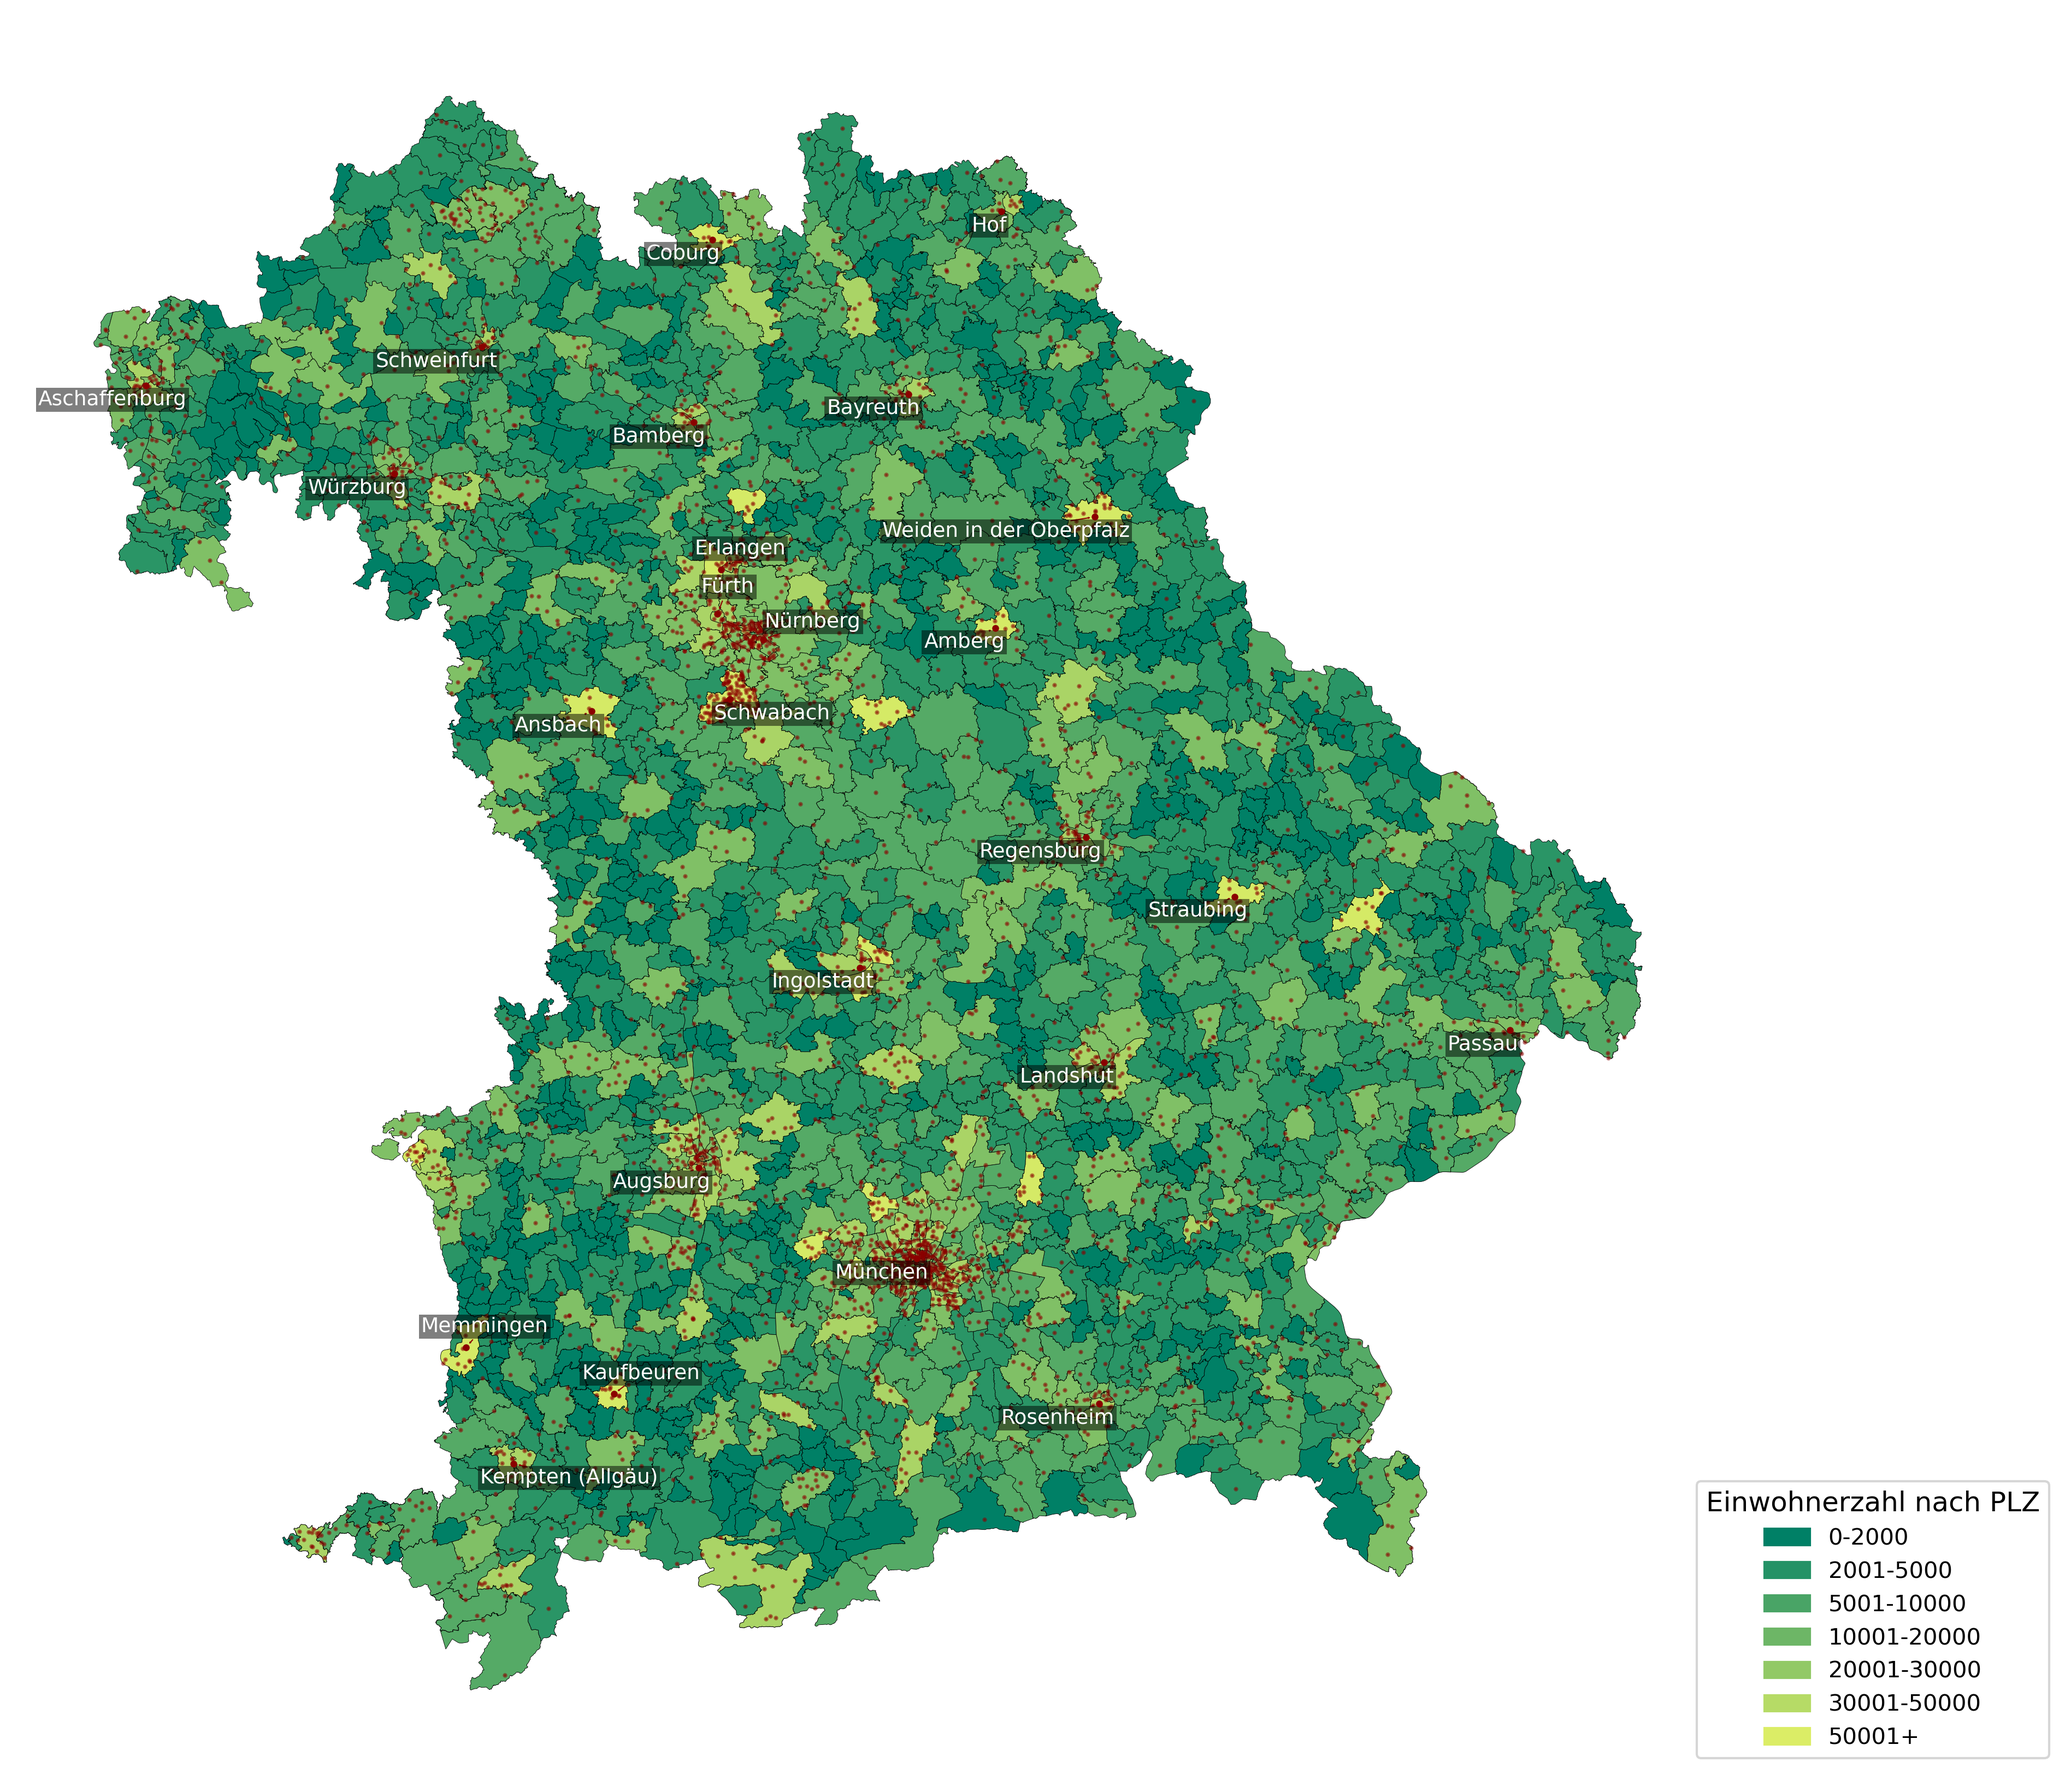
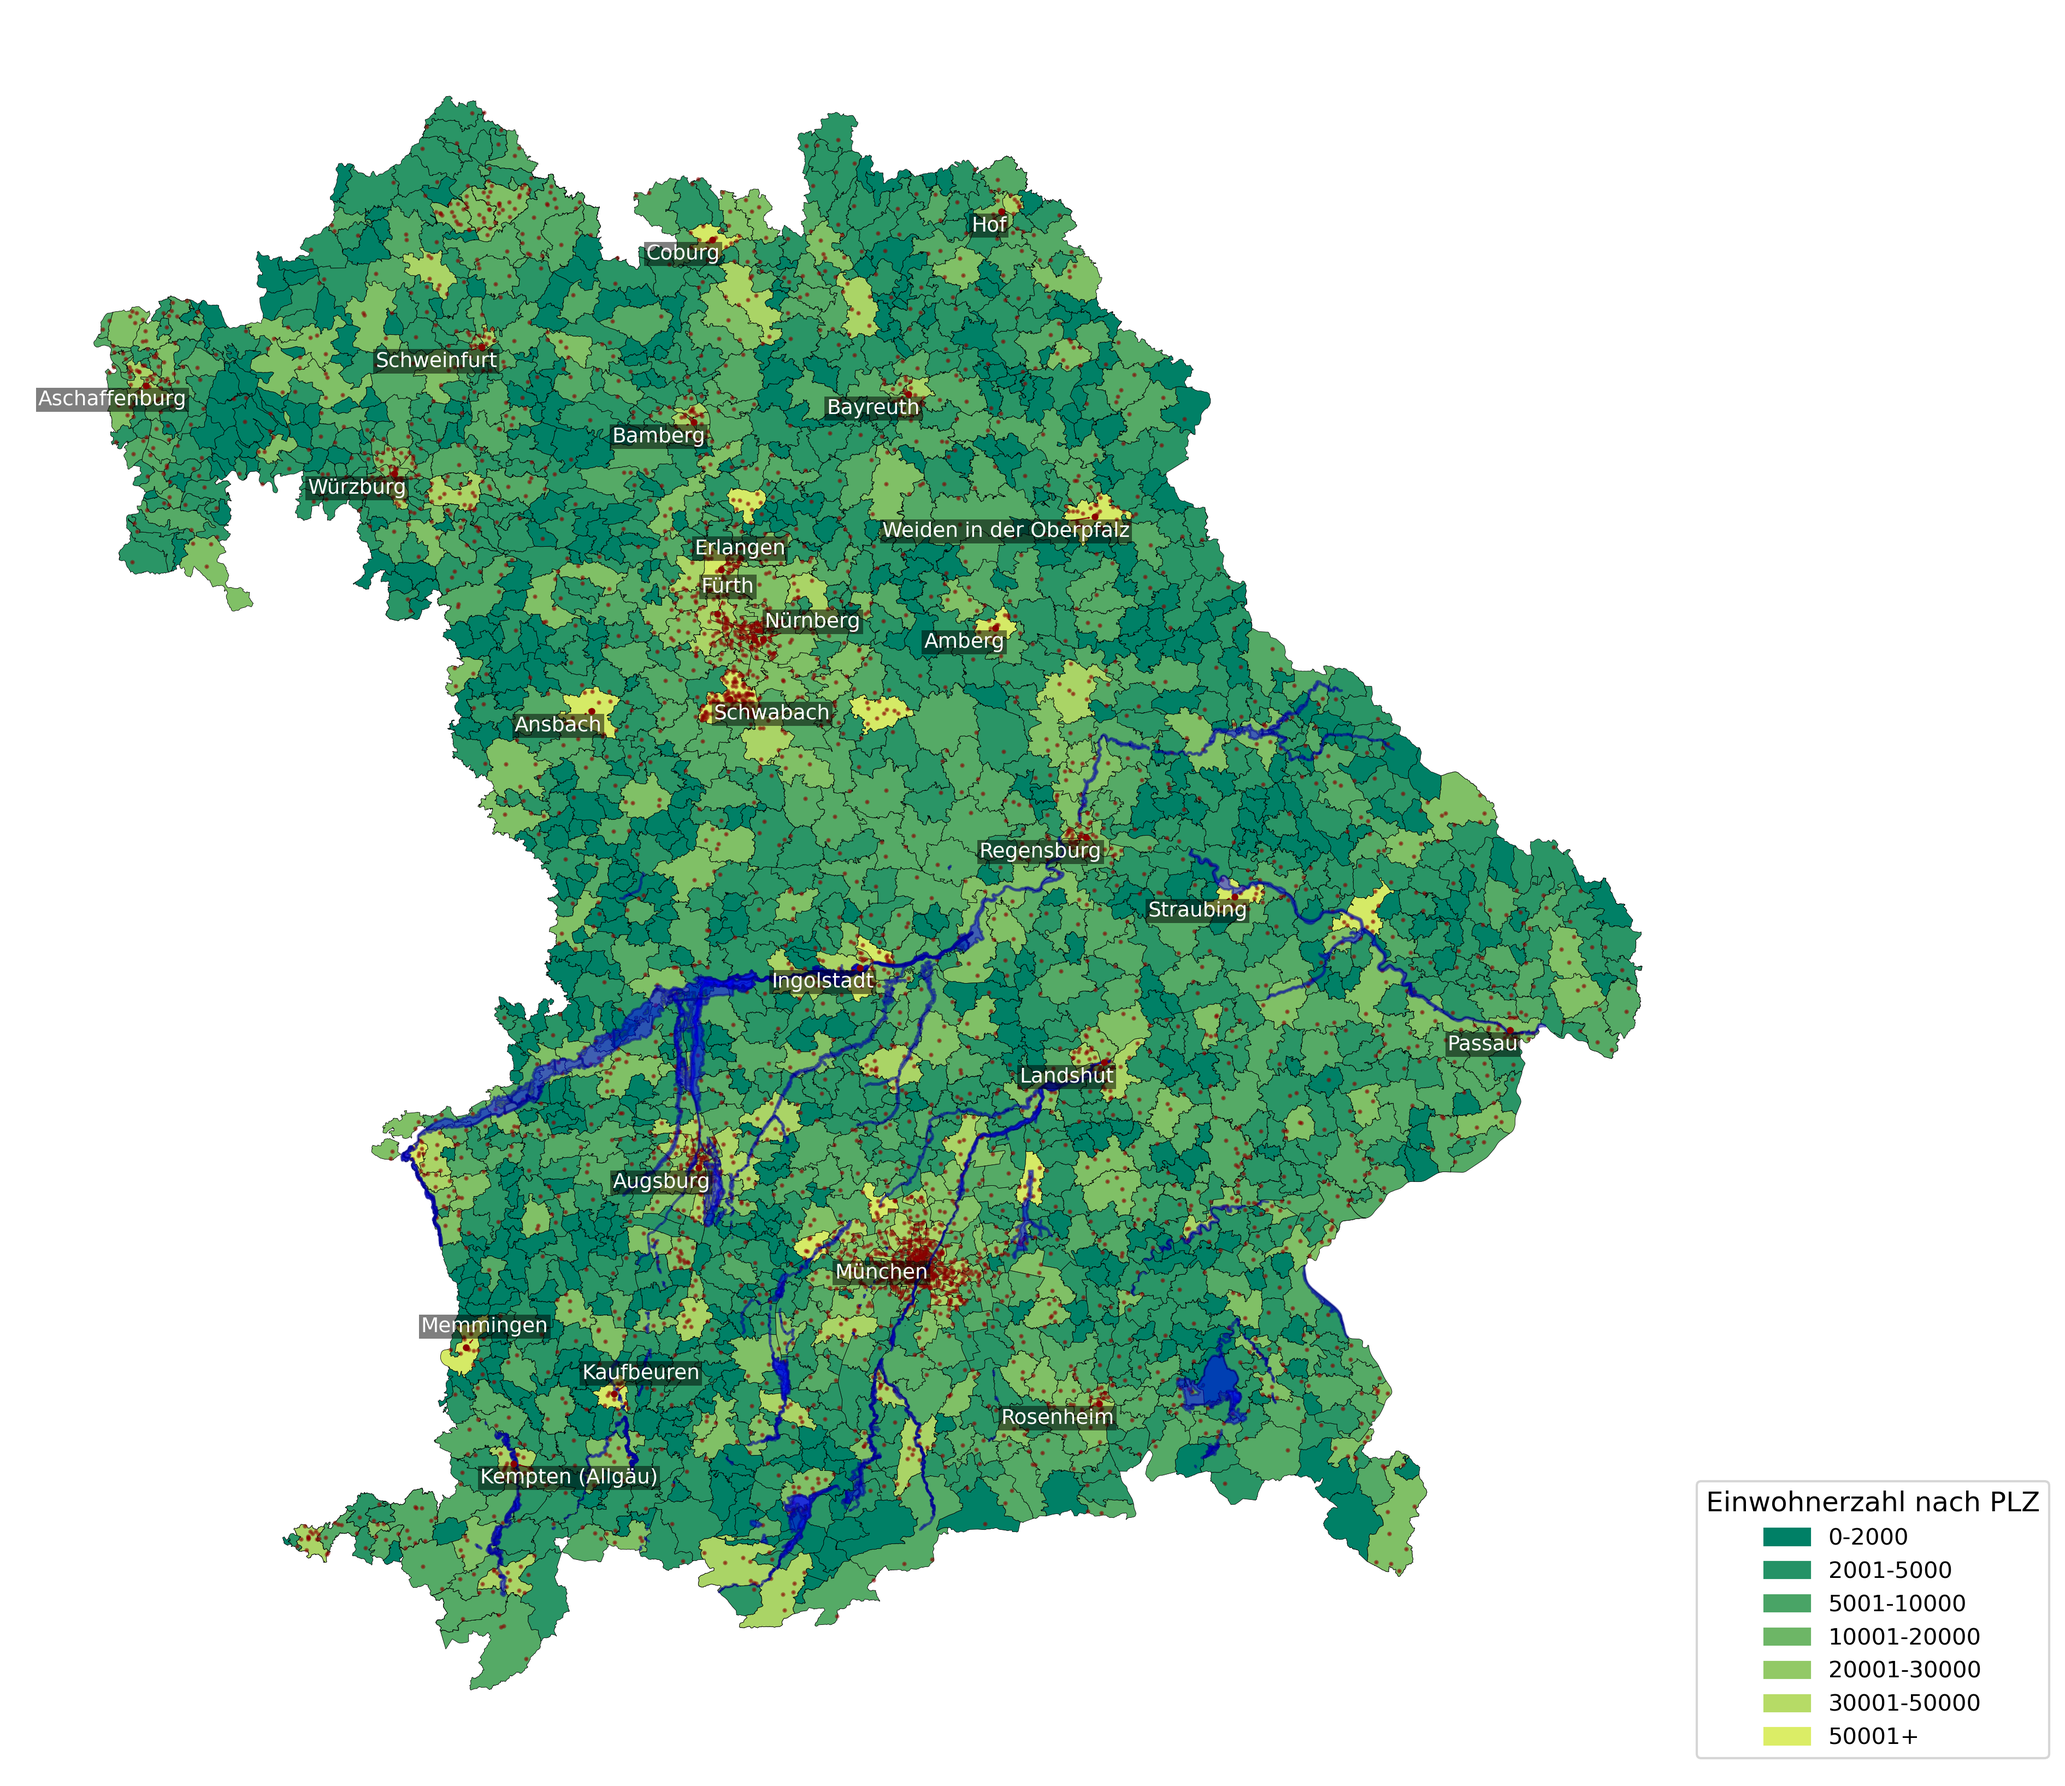
update flut abbl

diff --git a/bayernhochwassermap.py b/bayernhochwassermap.py
@@ -1,6 +1,10 @@
 import geopandas as gpd
 import pandas as pd
+import numpy as np
 import matplotlib.pyplot as plt
+from shapely.geometry import Point
+from matplotlib.patches import Patch
+from adjustText import adjust_text
 from zipfile import ZipFile
 import tempfile
 import os
@@ -8,73 +12,154 @@ import os
 # Đường dẫn đến file zip chứa dữ liệu lũ lụt
 flood_zip_path = r"C:\Users\uyen truong\Desktop\Hochschule-Muenchen-LaTeX-Template\hochwasserereignisse_epsg4258_shp.zip"
 
-# Đọc dữ liệu Bayern
+# Đọc dữ liệu PLZ (Postleitzahl) từ shapefile
 zip_path = r"C:\Users\uyen truong\Desktop\Hochschule-Muenchen-LaTeX-Template\plz-5stellig.shp.zip"
 shp_name = 'plz-5stellig'
 full_path = f"zip://{zip_path}!{shp_name}.shp"
 plz_shape_df = gpd.read_file(full_path, dtype={'plz': str})
 
+# Đọc dữ liệu vùng từ CSV
 plz_region_df = pd.read_csv('zuordnung_plz_ort.csv', sep=',', dtype={'plz': str})
 plz_region_df.drop('osm_id', axis=1, inplace=True)
 
+# Ghép dữ liệu shapefile và dữ liệu vùng
 germany_df = pd.merge(left=plz_shape_df, right=plz_region_df, on='plz', how='inner')
 germany_df.drop(['note'], axis=1, inplace=True)
+
+# Lọc dữ liệu cho Bayern
 bayern_df = germany_df.query('bundesland == "Bayern"')
 
 # Đọc dữ liệu lũ lụt từ file zip
 with tempfile.TemporaryDirectory() as tmpdir:
     with ZipFile(flood_zip_path, 'r') as zip_ref:
         zip_ref.extractall(tmpdir)
-    
-    # Tìm file .shp trong thư mục tạm thời
     shp_files = [f for f in os.listdir(tmpdir) if f.endswith('.shp')]
-    
     if not shp_files:
         raise FileNotFoundError("Không tìm thấy file .shp trong zip")
-    
-    # Đọc file shapefile đầu tiên (giả sử đây là file chứa dữ liệu vùng ngập)
     flood_data = gpd.read_file(os.path.join(tmpdir, shp_files[0]))
 
-# Đảm bảo cùng hệ tọa độ
-bayern_df = bayern_df.to_crs(flood_data.crs)
+# Chuyển đổi CRS sang hệ tọa độ chiếu (EPSG:3035) trước khi tính toán centroid
+bayern_df = bayern_df.to_crs("EPSG:3035")
+flood_data = flood_data.to_crs("EPSG:3035")
 
-# Tạo bản đồ
-fig, ax = plt.subplots(figsize=(16, 11))
+# Tính toán tổng dân số
+total_population = bayern_df['einwohner'].sum()
 
-# Vẽ bản đồ Bayern với cmap='summer'
-bayern_df.plot(
-    ax=ax, 
-    column='einwohner', 
-    categorical=False, 
-    legend=True, 
-    cmap='summer',
-    edgecolor='none',
-    alpha=0.7
-)
+# Tính số điểm cần phân bổ cho mỗi vùng dựa trên dân số của nó
+bayern_df['points'] = (bayern_df['einwohner'] / total_population * 3853).round().astype(int)
 
-# Vẽ vùng ngập
-flood_data.plot(ax=ax, color='blue', alpha=0.5, edgecolor='darkblue', label='Vùng ngập')
+# Đảm bảo tổng số điểm bằng 3853 (do làm tròn)
+difference = 3853 - bayern_df['points'].sum()
+if difference != 0:
+    max_index = bayern_df['points'].idxmax()
+    bayern_df.at[max_index, 'points'] += difference
 
-# Thêm tiêu đề và chú thích
-ax.set_title('Vùng ngập lụt và phân bố dân số ở Bayern', fontsize=16)
-ax.axis('off')
+# Tạo các điểm ngẫu nhiên trong mỗi vùng và tạo DataFrame cho chúng
+points = []
+data = []
+for idx, row in bayern_df.iterrows():
+    num_points = row['points']
+    polygon = row['geometry']
+    minx, miny, maxx, maxy = polygon.bounds
+    for _ in range(num_points):
+        while True:
+            random_point = Point(np.random.uniform(minx, maxx), np.random.uniform(miny, maxy))
+            if polygon.contains(random_point):
+                points.append(random_point)
+                data.append({
+                    'ort': row['ort'],
+                    'landkreis': row['landkreis'],
+                    'latitude': random_point.y,
+                    'longitude': random_point.x
+                })
+                break
 
-# Điều chỉnh thanh màu (colorbar)
-cbar = ax.get_figure().get_axes()[1]
-cbar.set_ylabel('Dân số', fontsize=12)
-cbar.tick_params(labelsize=10)
+# Chuyển các điểm thành GeoDataFrame
+points_gdf = gpd.GeoDataFrame(geometry=points)
 
-# Thêm chú thích cho vùng ngập
-ax.legend(fontsize=10, loc='lower left')
+# Chuyển danh sách dữ liệu thành DataFrame
+points_df = pd.DataFrame(data)
 
-# Đặt nền trắng
-fig.patch.set_facecolor('white')
-ax.set_facecolor('white')
+# Tạo bản đồ với và không có dữ liệu lũ lụt
+for plot_with_flood in [True, False]:
+    fig, ax = plt.subplots(figsize=(16, 11))
 
-plt.tight_layout()
-plt.show()
+    # Vẽ bản đồ phân bố dân số
+    population_bins = [0, 2000, 5000, 10000, 20000, 30000, 50000, 100000]
+    population_labels = ['0-2000', '2001-5000', '5001-10000', '10001-20000', '20001-30000', '30001-50000', '50001+']
+    bayern_df['pop_category'] = pd.cut(bayern_df['einwohner'], bins=population_bins, labels=population_labels)
 
-# In thông tin về dữ liệu lũ lụt
-print(flood_data.info())
-print(flood_data.head())
-flood_data.to_csv("bayernflooddata.csv", index=False)
+    bayern_df.plot(
+        ax=ax,
+        column='pop_category',
+        categorical=True,
+        legend=False,
+        cmap='summer',
+        edgecolor='black',
+        linewidth=0.2
+    )
+
+    # Vẽ các điểm phân bố lên bản đồ
+    points_gdf.plot(ax=ax, marker='o', color='darkred', markersize=1, alpha=0.5)
+
+    # Vẽ dữ liệu lũ lụt nếu plot_with_flood là True
+    if plot_with_flood:
+        flood_data.plot(ax=ax, color='blue', alpha=0.5, edgecolor='darkblue', label='Vùng ngập lụt')
+
+    # Vẽ các điểm trung tâm cho từng Ort
+    ort_centers = bayern_df[bayern_df['landkreis'].isna()].groupby('ort').agg({
+        'geometry': lambda x: x.unary_union.centroid
+    }).reset_index()
+
+    ort_centers = ort_centers.set_geometry('geometry')
+
+    ax.scatter(
+        ort_centers.geometry.x,
+        ort_centers.geometry.y,
+        color='darkred',
+        s=4,
+        zorder=5
+    )
+
+    # Annotating only unique Orts with empty 'landkreis'
+    texts = []
+    for idx, row in ort_centers.iterrows():
+        texts.append(ax.text(
+            row.geometry.x + 0.005,
+            row.geometry.y + 0.005,
+            row['ort'],
+            ha='center',
+            va='center',
+            fontsize=9,
+            color='white',
+            bbox=dict(facecolor='black', alpha=0.5, edgecolor='none', pad=1)
+        ))
+
+    # Use adjust_text to avoid overlapping
+    try:
+        adjust_text(texts, arrowprops=dict(arrowstyle='->', color='darkred', lw=0.5))
+    except MemoryError:
+        print("MemoryError: Unable to adjust text. Reducing number of labels or simplifying the layout might help.")
+
+    # Tạo chú thích cho phân loại dân số
+    legend_handles = [
+        Patch(color=plt.cm.summer(i / len(population_labels)), label=label)
+        for i, label in enumerate(population_labels)
+    ]
+    ax.legend(handles=legend_handles, title='Einwohnerzahl nach PLZ', loc='lower right', fontsize=10, title_fontsize=12, bbox_to_anchor=(1.2, 0))
+
+    # Xóa tiêu đề và đặt nền trắng
+    ax.axis('off')
+    fig.patch.set_facecolor('white')
+    ax.set_facecolor('white')
+
+    plt.tight_layout()
+
+    # Hiển thị biểu đồ
+    plt.show()
+
+# Lưu DataFrame điểm phân bố ra file CSV (tùy chọn)
+#points_df.to_csv("bayern_points_distribution.csv", index=False)
+
+# Hiển thị DataFrame
+#print(points_df.head())
